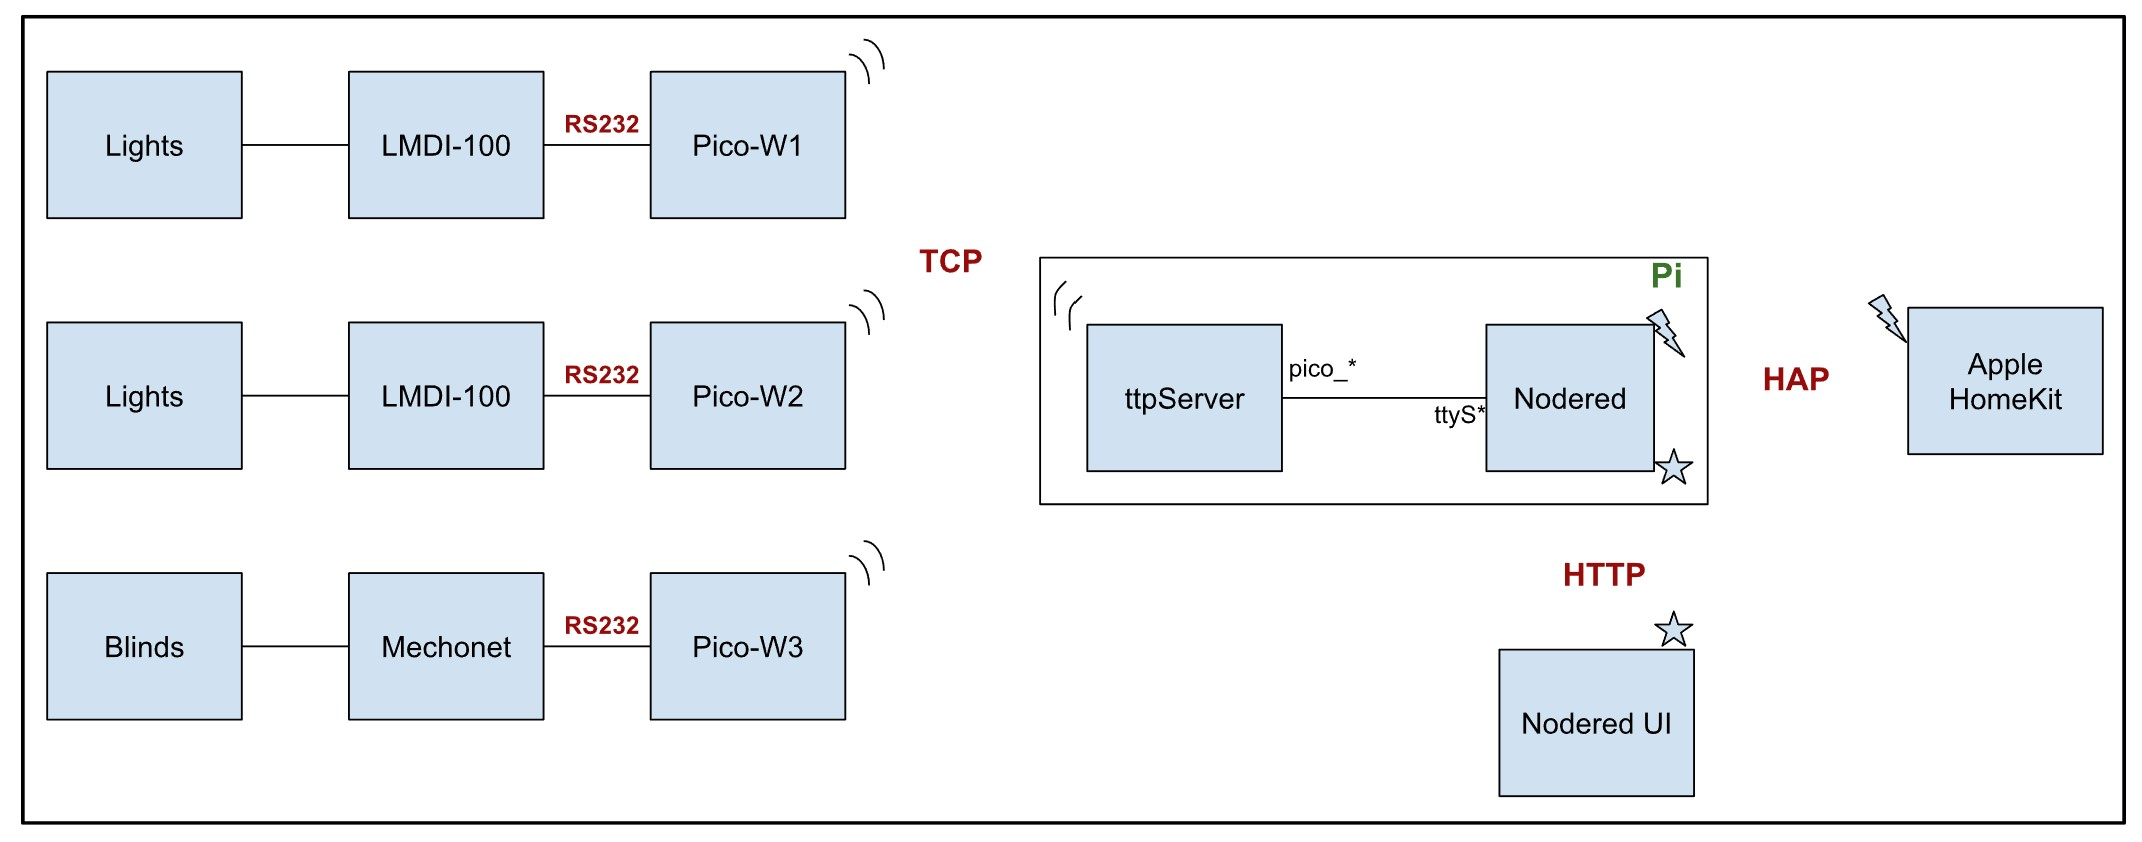
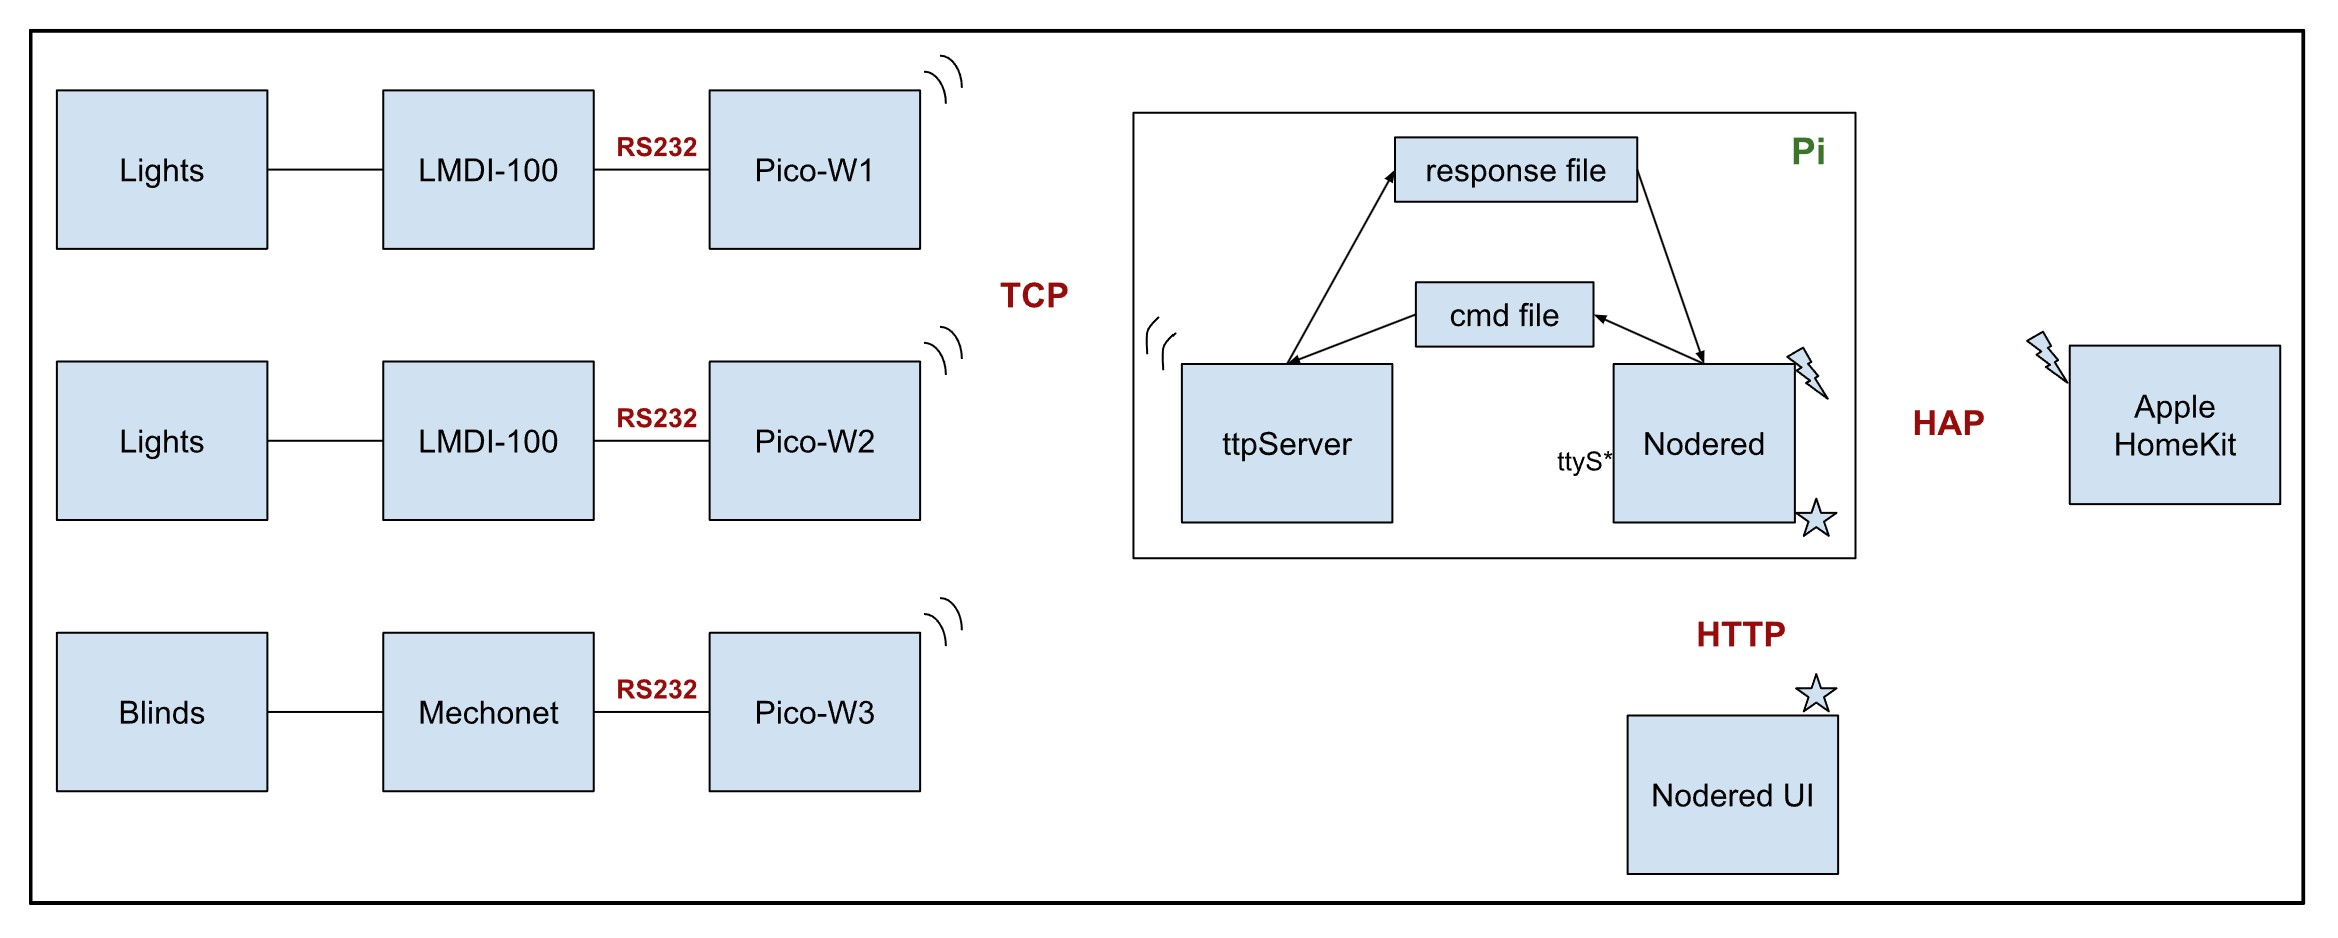
project images updated

diff --git a/README.md b/README.md
@@ -39,7 +39,7 @@ When running Node-RED with [SmartHome.json](./SmartHome.json) on a Raspberry Pi,
 * Increment/decrement the 'n' value (represents accessory number) in function node connected to the accessory.
 * Add the accessory on your Apple device.
 
-## Devloper Notes
+## Developer Notes
 * Instead of using [`SmartHome.json`](./SmartHome.json) to send commands through the serial port and named pipes, we can utilize [`TcpSmartHome.json`](./extras/TcpSmartHome.json) to communicate commands from the Raspberry-Pi to the Pico-W via TCP as shown below.
     ![TcpSmartHome control flow](img/7.jpg)
 
